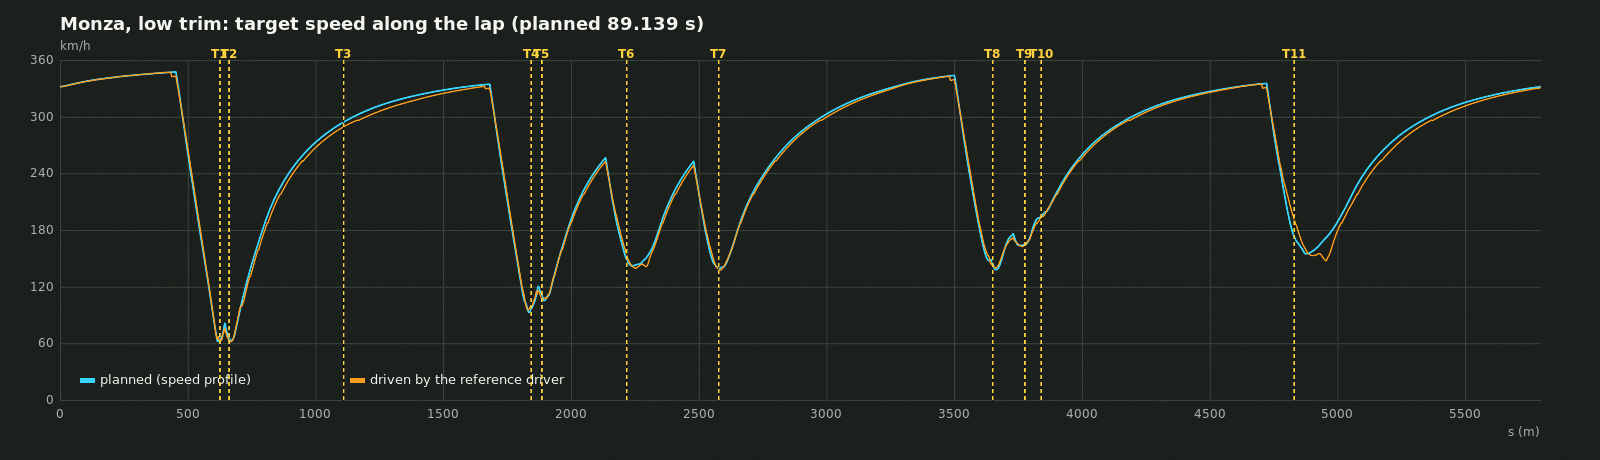
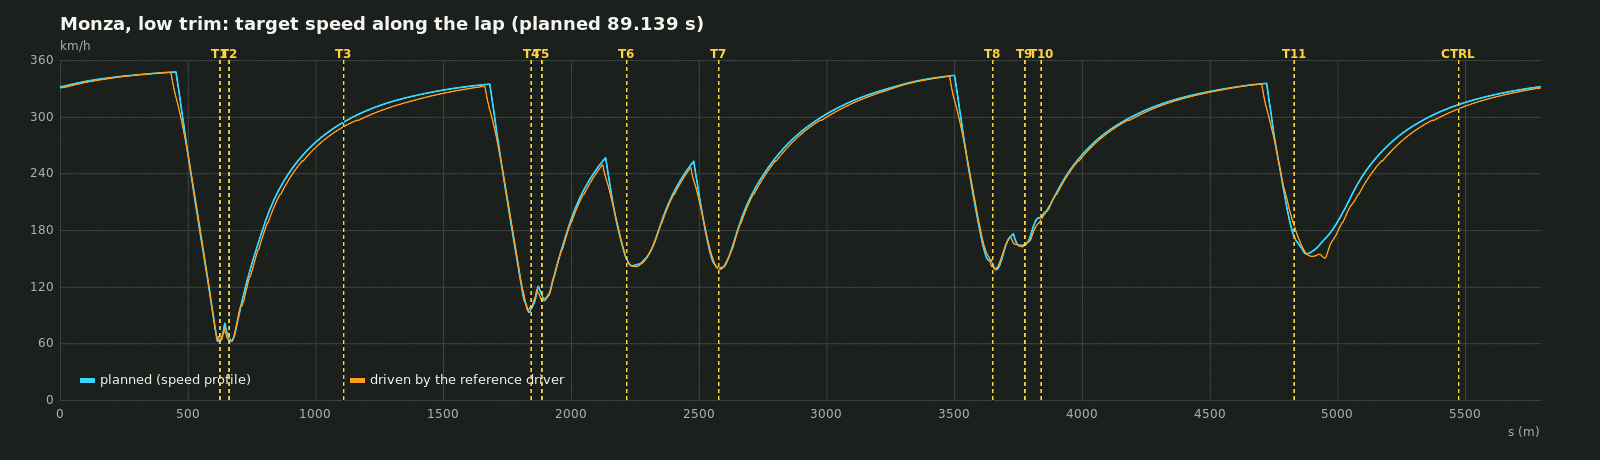
Rewrite the lap attribution, add the corner geometry table and the control-line timing

diff --git a/tools/ai/plot_line.py b/tools/ai/plot_line.py
@@ -79,7 +79,8 @@ def driven_lap(cid):
         for row in csv.DictReader(f):
             if row["lap"] == "0":
                 pts.append((float(row["s"]), float(row["speed_kmh"])))
-    return pts or None
+    # A lap timed from a control line away from s = 0 wraps through s = 0: plot it in s order.
+    return sorted(pts) or None
 
 
 def speed_svg(tr, title, plan_kmh, driven, marks):
@@ -172,6 +173,9 @@ def main(argv):
         plot.write(speed_legend(svg.finish([])), os.path.join(out_dir, "%s-%s-line-%s" % (cid, trim, label.lower())), keep_svg)
 
     marks = [(c["s"], "T%d" % c["number"]) for c in cs]
+    if cid == "monza":
+        # Control line measured on the FIA circuit map (packages/ai/validation/lib/circuits.ts).
+        marks.append((5472.5, "CTRL"))
     plot.write(speed_svg(tr, "%s, %s trim: target speed along the lap (planned %.3f s)" % (name, trim, lap), speeds, driven_lap(cid), marks), os.path.join(out_dir, "%s-%s-speed" % (cid, trim)), keep_svg)
     return 0
 

diff --git a/docs/physics-validation.md b/docs/physics-validation.md
@@ -316,7 +316,7 @@ Also published: distance from pole position to the Turn 1 braking point is Monza
 | Braking in medium and high-downforce trim stronger than published (section 7) | Spa T5 peaks 5.07–5.11 g against 4.5–4.7, distances 82–83 m against 93–99 m; Singapore T7 5.70 g against 4.9 and 1.57 s against 1.90 s; Singapore T14 peak 5.11 g against 4.6 | The model's tyre-limited deceleration rises with downforce; the published peaks barely do (Monza 4.7, Spa 4.7, Singapore 4.9 g). Candidates: high-trim ClA, floor behaviour under dive, load sensitivity. The published distances and times also include a trail-off the fixed event pedal profile only approximates |
 | Monza T1 2023 peak 4.68 g against 5.2 ± 0.4 (section 7) | One event | The 2023 figure stands apart from 2024 (4.6 g) and 2025 (4.7 g) at the same corner and speed; the model gives about 4.7 g for all three. Check the 2023 source |
 | Pouhon 4.14 g against 5.7 ± 0.7 (section 7) | Fast-corner lateral grip below the one secondary figure | Flat constant-speed sweep with μy fitted to braking; the corner is downhill with two apexes and the source is a blog. Re-test on the Spa surface with the reference driver |
-| Monza reference lap 89.926 s against the M1 band 74.852–82.732 s (section 7.6) | 7.19 s outside M1, 8.77 s outside M4; the car itself (driver aside) laps in 88.0 s at the full measured envelope | Medium-speed lateral grip: corner minimum speeds in S2 and S3 are what 2.2–2.5 g allows at 140–180 km/h. On this line +10 % lateral grip is worth 2.3 s, +10 % braking or traction 0.35 s each; at the full envelope the M1 band needs about 1.25× the lateral grip and the M4 band 1.34×. Same root cause as the Pouhon gap and section 7.4 |
+| Monza reference lap 90.137 s against the M1 band 74.852–82.732 s (section 7.6) | 7.41 s outside M1, 8.98 s outside M4 | Not yet attributed to one cause. About 1.13 s is the driver's planning margin and 1.00 s the gap between the plan and the driven lap; the remaining 9.22 s against the pole lap combine the car's grip, the track geometry and authored widths, the line (margin, kerbs unused: 0.85 s of it in the plan) and the speed-profile approximation. The planned corner speeds sit at the car's measured lateral limit on this line's radii (section 7.6 table), so lateral grip is the strongest lever on this geometry, but that alone does not show the car's grip is wrong |
 
 ## 6. Sources
 
@@ -406,7 +406,7 @@ recorded (section 3, rule 2). Speeds in km/h, decelerations and accelerations in
 | Pouhon, medium trim, 281 km/h, Spa air (2.5) | 5.7 ± 0.7 | 4.14 | gap |
 | Parabolica exit, low trim, 270 km/h, Monza air | 3.5–4.0 ± 0.6 | 3.62 | pass |
 | Slow corner 85 km/h, low / medium / high trim | 2.0–2.3 ± 0.4 | 1.81 / 1.82 / 1.85 | pass |
-| Monza reference lap, low trim, qualifying fuel, reference driver (2.1; 7.6) | 74.852–82.732 s (M1) | 89.926 s | gap |
+| Monza reference lap, low trim, qualifying fuel, reference driver (2.1; 7.6) | 74.852–82.732 s (M1) | 90.137 s | gap |
 | Monza speed trap on that lap, DRS open, no tow (2.2) | 348 ± 6 | 347.3 | pass |
 
 18 of 34 pass, one of them the fit, and 16 are recorded gaps (section 5). The reference lap and its
@@ -522,73 +522,119 @@ Each needs a source before it changes.
 
 ### 7.6 Reference lap, Monza (2.1, 2.2)
 
-The reference driver (`packages/ai`) drives a flying lap of the committed Monza surface in the
-section 2.1 conditions: low trim exactly as the game builds the car (`createCarParams('low')`,
-`createWorld` with the track's surface, `addCar`), 10 kg of fuel, 25 °C at 180 m, DRS in the
-zones, the MGU-K deploying from a full store. It produces only the `ControlInput` a player's
-devices produce. Measured with `npm run telemetry -- lap`; asserted by
+The reference driver (`packages/ai`) drives the committed Monza surface in the section 2.1
+conditions: low trim exactly as the game builds the car (`createCarParams('low')`, `createWorld`
+with the track's surface, `addCar`), 10 kg of fuel, 25 °C at 180 m, DRS in the zones, full ERS.
+It produces only the `ControlInput` a player's devices produce. It drives one out-lap, saving the
+MGU-K so the store is full at the line as in qualifying, then the timed lap, timed from the
+**control line** (below). Measured with `npm run telemetry -- lap`; asserted by
 `packages/ai/validation/reference-lap.test.ts` in the physics job (one lap) and by the nightly
 soak (ten consecutive laps).
 
 | Quantity | Result | Target or reference |
 |---|---|---|
-| Lap | **89.926 s** | 1:18.792 (+11.134 s, +14.1 %); M1 band 74.852–82.732 s: outside by 7.194 s; M4 band 76.428–81.156 s: outside by 8.770 s |
+| Lap | **90.137 s** | 1:18.792 (+11.345 s, +14.4 %); M1 band 74.852–82.732 s: outside by 7.405 s; M4 band 76.428–81.156 s: outside by 8.981 s |
 | Speed trap (412 m, 212 m before T1) | 347.3 km/h | 348 ± 6 (median 348.3), pass |
-| Timing line | 332.3 km/h | fastest 320.7 published (see the note below) |
-| MGU-K deployed from the store / harvested | 3.13 / 1.30 MJ | ≤ 4 / ≤ 2 MJ per lap |
+| Control line | 308.9 km/h | fastest 320.7 published |
+| MGU-K deployed from the store / harvested | 3.08 / 1.52 MJ | ≤ 4 / ≤ 2 MJ per lap |
 | Track limits | at most one wheel centre past a white line, never four | rule: never all four wheels beyond the edges |
 | Stability | sideslip at most 4.4°, no spin | |
-| Ten consecutive laps (34 kg start, getting lighter) | 90.406–90.651 s, spread 0.244 s, all clean | nightly soak: spread ≤ 0.5 s |
+| Ten consecutive laps (34 kg start, getting lighter) | 90.281–90.509 s, spread 0.228 s, all clean | nightly soak: spread ≤ 0.5 s |
 
-| Sector | Lap | Speed profile | Pole lap 2025 | Session best | Lap − pole |
+**Timing origin.** The track file's s = 0 is the OpenStreetMap start node, at the start line.
+The FIA circuit map [4] draws the start line and the control (timing) line apart on the main
+straight, and lap and sector times run from the control line. The map gives no distance for it,
+so it was measured: the map's drawn track (its vector paths) was fitted to this centreline with a
+similarity transform (median miss 3.4 m), and the control-line tick projected onto it. The control
+line is at **s = 5472.5 m, 320.5 m before s = 0**, within about ±13 m: the map's S1, S2 and
+speed-trap ticks land −8.0, −6.6 and +12.6 m from their stored positions under the same fit. The
+lap runner times laps, sectors and the ERS lap from that line (`CircuitSetup.controlLine`); the
+track file is unchanged here, and carrying the control line as track metadata is a track-pipeline
+task. Two things follow. The map also anchors DRS activation 2 at "12 m after the finish line",
+so the track file's zone 2 activation (s = 12 m) is about 320 m later than allowed: the car opens
+DRS that much later on the main straight than a real car may. And the earlier version of this
+section, which timed from s = 0, had sector 1 faster than the pole lap's; that does not survive:
+timed from the control line every sector is slower.
+
+| Sector (from the control line) | Lap | Speed profile | Pole lap 2025 | Session best | Lap − pole |
 |---|---|---|---|---|---|
-| S1 (0–1609 m) | 25.280 | 24.996 | 26.262 | 26.181 | −0.982 (−3.7 %) |
-| S2 (1609–3434 m) | 30.854 | 30.749 | 26.483 | 26.340 | +4.371 (+16.5 %) |
-| S3 (3434–5793 m) | 33.791 | 33.393 | 26.047 | 26.047 | +7.744 (+29.7 %) |
+| S1 (5472.5 → 1609.3 m, 1930 m) | 28.922 | 28.552 | 26.262 | 26.181 | +2.660 (+10.1 %) |
+| S2 (1609.3 → 3433.6 m, 1824 m) | 30.925 | 30.749 | 26.483 | 26.340 | +4.442 (+16.8 %) |
+| S3 (3433.6 → 5472.5 m, 2039 m) | 30.290 | 29.838 | 26.047 | 26.047 | +4.243 (+16.3 %) |
 
 | Corner | Minimum speed (km/h) | Speed profile | Braking into it | Published |
 |---|---|---|---|---|
-| T1 Rettifilo | 63.0 | 62.9 | from 347 km/h, 192 m, 4.18 s to the minimum | 337→89 km/h in 129 m, 2.75 s; here 337→89 km/h takes 143 m, 2.73 s |
-| T2 Rettifilo | 62.2 | 63.7 | — | — |
+| T1 Rettifilo | 63.0 | 62.9 | from 347 km/h, 192 m, 4.22 s to the minimum | 337→89 km/h in 129 m, 2.75 s; here 337→89 km/h takes 160 m, 2.95 s |
+| T2 Rettifilo | 62.2 | 63.7 | 23 m | — |
 | T3 Biassono | 163.8 | 171.8 | lift only | — |
-| T4 Roggia | 95.7 | 93.6 | from 332 km/h, 169 m, 3.23 s | 107 m, 2.02 s (speeds not published) |
-| T5 Roggia | 107.3 | 105.8 | 23 m | — |
-| T6 Lesmo 1 | 140.0 | 142.5 | from 253 km/h, 117 m, 2.32 s | — |
-| T7 Lesmo 2 | 138.1 | 139.3 | from 249 km/h, 106 m, 2.13 s | — |
-| T8 Ascari entry | 140.4 | 138.7 | from 343 km/h, 181 m, 3.00 s | — |
-| T9 Ascari | 157.4 | 155.8 | — | — |
-| T10 Ascari exit | 186.3 | 190.1 | — | — |
-| T11 Parabolica | 148.0 | 155.3 | from 335 km/h, 253 m, 4.56 s | — |
+| T4 Roggia | 95.7 | 93.6 | from 333 km/h, 170 m, 3.27 s | 107 m, 2.02 s (speeds not published) |
+| T5 Roggia | 105.8 | 105.8 | 21 m | — |
+| T6 Lesmo 1 | 141.7 | 142.5 | from 250 km/h, 129 m, 2.56 s | — |
+| T7 Lesmo 2 | 139.1 | 139.3 | from 247 km/h, 118 m, 2.35 s | — |
+| T8 Ascari entry | 139.7 | 138.7 | from 343 km/h, 179 m, 3.00 s | — |
+| T9 Ascari | 157.7 | 155.8 | — | — |
+| T10 Ascari exit | 183.6 | 190.1 | — | — |
+| T11 Parabolica | 150.8 | 155.3 | from 335 km/h, 247 m, 4.46 s | — |
+
+**What the line asks of the car.** Per corner: the line's tightest radius, the driven minimum
+speed, the lateral acceleration that speed implies on that radius, and the car's measured
+sustained lateral limit at that speed on flat ground at 1 g (the envelope; printed by
+`npm run telemetry -- lap`). Implied above the limit means grip the flat sweep does not show
+(banking, a compression, or a minimum speed and a minimum radius that do not coincide); below it,
+margin left at that corner on this line.
+
+| Corner | Line min radius (m) | Driven min speed (km/h) | Implied lateral (g) | Measured flat limit at that speed (g) |
+|---|---|---|---|---|
+| T1 Rettifilo | 18.7 | 63.0 | 1.66 | 1.69 |
+| T2 Rettifilo | 19.5 | 62.2 | 1.56 | 1.69 |
+| T3 Biassono | 278.7 | 163.8 | 0.76 | 2.36 |
+| T4 Roggia | 38.5 | 95.7 | 1.87 | 1.87 |
+| T5 Roggia | 46.3 | 105.8 | 1.90 | 1.94 |
+| T6 Lesmo 1 | 75.2 | 141.7 | 2.10 | 2.19 |
+| T7 Lesmo 2 | 67.2 | 139.1 | 2.27 | 2.17 |
+| T8 Ascari entry | 69.0 | 139.7 | 2.23 | 2.17 |
+| T9 Ascari | 98.0 | 157.7 | 2.00 | 2.31 |
+| T10 Ascari exit | 110.1 | 183.6 | 2.41 | 2.54 |
+| T11 Parabolica | 79.2 | 150.8 | 2.26 | 2.26 |
+
+Every corner but the flat-out T3 is taken at or near the car's measured lateral limit for the
+radius this line gives it, so on this geometry the planning is grip-limited. That does not isolate
+an error in the car's grip: a real lap's radii, widths and kerb use differ from this line's, and
+the published data have no per-corner speeds to compare (only Brembo's 89 km/h at the end of the
+T1 stop, against 63 km/h here).
 
 Plots: `docs/evidence/m1-ai/monza-low-line.png` (the line over the plan, speed as colour),
 close-ups `monza-low-line-t*.png`, and `monza-low-speed.png` (target speed along the lap with the
 driven lap over it).
 
-**Where the 11.1 s go.** Three layers, measured separately:
+**Where the 11.3 s go.** What is measured, and what is not yet separated:
 
-1. *The car* (9.2 s against the pole lap): the speed profile at the full measured envelope on the
-   same line gives 88.014 s. The car is slow in corners, not on the straights: the trap is on
-   target and S1, which is mostly straight and has the one slow chicane, is faster than the pole
-   lap's sector, while S2 (Roggia, both Lesmos) and S3 (Ascari, Parabolica) lose 4.4 and 7.7 s.
-   The corner minimum speeds are what the measured lateral limit allows: 1.7–1.9 g at 60–100 km/h,
-   2.2–2.5 g at 140–180 km/h, 2.9 g at 220 km/h (envelope at load 1, below), where section 2.5
-   estimates 3.5–4.0 g at the Parabolica exit for the real car. On this line the lap
-   is far more sensitive to lateral grip than to anything else: +10 % lateral 2.27 s, +20 % 4.30 s,
-   +30 % 6.14 s; +10 % braking 0.35 s; +10 % traction 0.36 s. At the full envelope the lap reaches
-   the M1 band at 1.25× the lateral grip, the M4 band at 1.34×, the pole lap at 1.49×. This is the
-   same shortfall as the Pouhon gap and section 7.4's load-sensitivity pattern, now with its cost
-   in lap time; it is the next physics task's target.
-2. *Planning margin* (1.13 s): the reference driver plans with 97 % of the lateral and traction
-   limits and 95 % of the braking limit (89.139 s). Asking for more is slower and then unclean:
-   at 98 % and 99 % it laps in 90.032 and 90.252 s because it runs wider, and at 100 % all four
-   wheels leave the track at Parabolica (90.355 s).
-3. *Driving* (0.79 s against its own plan): mostly Parabolica (about 0.45 s; braking into the
-   turn, the light inside front wheel limits the pedal and the car runs up to 4 m wide), the exits
-   of T1–T2 and Ascari, and the run through Curva Grande, which the profile takes 8 km/h faster.
+1. *Driving* (1.00 s): the driven lap (90.137 s) against the driver's own speed profile on the
+   same line (89.139 s): 0.37 s in S1 (the T1–T2 exits and Curva Grande, which the profile takes
+   8 km/h faster), 0.18 s in S2 and 0.45 s in S3 (the Ascari exit and the braking into
+   Parabolica, where the light inside front locks first under the fixed 57 % bias and the car
+   runs wide).
+2. *Planning margin* (1.13 s): the driver plans with 97 % of the lateral and traction limits and
+   95 % of the braking limit; at the full measured envelope the profile on the same line is
+   88.014 s. Asking for more is slower and then unclean: at 98 % and 99 % the lap is 90.032 and
+   90.252 s because the car runs wider, and at 100 % all four wheels leave the track at Parabolica.
+3. *Residual* (9.22 s against the pole lap): the full-envelope profile on this line. This
+   combines the car (grip, power, drag), the track geometry and authored widths (track-data.md),
+   the line and the profile approximation, and they are not separated yet. Measured pieces: the
+   line's 0.3 m margin is worth 0.26 s (87.757 s with no margin, line re-optimised), and using the
+   kerbs another 0.60 s (87.160 s with no margin and kerbs allowed: flat 1.0 m, exit 1.5 m,
+   chicane 1.0 m); the profile's own approximation is not measured (the driver gets within 1.1 %
+   of it). What is left after those, about 8.4 s, is car, geometry and widths.
+
+*Sensitivities, conditional on this line and geometry* (full-envelope profile): +10 % lateral
+grip 2.27 s, +20 % 4.30 s, +30 % 6.14 s; +10 % braking 0.35 s; +10 % traction 0.36 s. On this line
+the profile would reach the M1 band at 1.25× the lateral limit, the M4 band at 1.34× and the pole
+lap at 1.49×. These are not a calibration target on their own: the geometry, width and line
+contributions above would change them, and the calibration task should separate those first
+(the per-corner table is the starting point).
 
 **Envelope.** Measured by driving the vehicle model (`packages/ai/src/envelope/measure.ts`, 1096 s
-of driving, about 1 s of wall time), cached in `packages/ai/data/monza-low.envelope.json` with a
-hash of its inputs (car parameters, air, fuel and the source of the sim and of the measurement):
+of driving, about 1 s of wall time), cached in `packages/ai/data/monza-low.envelope.json`:
 constant-speed lateral sweeps at 60–340 km/h, threshold stops from above top speed, and
 full-throttle runs with wheelspin held at the tyre's peak, DRS closed and open, MGU-K on and off,
 each at 0.8, 1.0 and 1.2 g of normal load (gravity scaled: what a crest or compression does), and
@@ -603,8 +649,6 @@ closed and 353.8 km/h open.
 
 - The driver plans with the measured envelope of this exact car, so the line and speeds fit the
   car better than any human's would.
-- A flying start 400 m before the line with the MGU-K deploying on the run-up (it counts against
-  the out-lap) and a full store at the line.
 - No wind, no traffic, no tyre temperature or wear model yet (the softest compound's grip is the
   tyre's one μ).
 
@@ -612,20 +656,11 @@ closed and 353.8 km/h open.
 
 - The driver keeps its wheels off the kerbs: in this model a kerb's leading edge (35–50 mm high
   within 10–12 cm) throws the wheel load around enough (0 to 11 kN within a tick) to unsettle the
-  car at the limit, so the line stays 0.3 m inside the white lines. A real pole lap uses the
-  kerbs at T1–T2, Roggia, both Lesmos and Ascari.
+  car at the limit, so the line stays 0.3 m inside the white lines (0.86 s in the plan, above).
+- DRS on the main straight opens about 320 m later than the map allows (track file, above).
 - The fixed 57 % brake bias and no ABS: braking while turning in, the lightly loaded inside front
   locks first, and the driver eases the pedal to keep it turning. A real driver adjusts bias per
   corner.
 - No downforce gain from the tow, and the driver never uses more than 97 % of the envelope.
 - The racing line is computed on the OpenStreetMap-derived centreline and authored widths
   (track-data.md); local width or curvature errors there show up as line choices.
-
-**Two observations for the track data** (reported, not changed here): the published timing-line
-speed (320.7 km/h, the session's fastest) is lower than this car's 332 km/h at the track's s = 0,
-although this car's corner speeds, Parabolica included, are lower than a pole lap's, which
-suggests the timing line sits about 200 m before s = 0 in reality. And the published sector times cannot be split on
-the track's sector lines with any plausible speed trace: an S3 of 2359 m in 26.047 s needs a mean
-of 326 km/h through Ascari and Parabolica. Both point at the start/finish and sector positions in
-`packages/track/data/monza.json` (built from doc 2.2's "S1 233 m before T4; S2 215 m before
-T8"); the lap time does not depend on them, the sector table above does.

diff --git a/docs/STATUS.md b/docs/STATUS.md
@@ -33,12 +33,13 @@ Open the `Wi-Fi:` address it prints on a phone on the same network. The HTTPS ad
 - Committed track files will be offered under ODbL 1.0 with the OpenStreetMap and Copernicus notices, separate from the MIT code.
 - The TUMFTM track dataset is used only as a local cross-check, never shipped: it is OSM-derived but published under LGPL-3.0.
 - Race start fuel 105 kg in the physics targets: the commonly quoted 110 kg cap was not found in the 2025 regulation text.
-- Reference driver (M1): the reference lap at Monza is 89.926 s, outside the M1 band (74.852–82.732 s). It is recorded as a known gap (physics-validation section 5 and 7.6), not loosened: the car lacks medium-speed lateral grip. The test asserts the gap stays within 0.197 s of the recorded value.
+- Reference driver (M1): the reference lap at Monza is 90.137 s, outside the M1 band (74.852–82.732 s). It is recorded as a known gap (physics-validation section 5 and 7.6), not loosened. The residual is not yet split between the car's grip, the track geometry and widths, and the line; the test asserts the gap stays within 0.197 s of the recorded value.
 - The reference driver keeps off the kerbs and 0.3 m inside the white lines: the kerb edges in the track model unsettle the car at the limit. Kerb use is a per-profile setting in the line configuration for when kerbs are smoother.
 - The reference driver plans with 97 % of the lateral and traction limits and 95 % of braking: the fastest setting that stays clean (98–99 % is slower, 100 % leaves the track).
-- The flying lap starts 400 m before the timing line on the racing line at the planned speed, with a full energy store, and the MGU-K may deploy on that run-up (it counts against the out-lap). Track limits are judged strictly: a wheel is off once its centre is past the white line.
-- The nightly ten-lap soak starts with 34 kg of fuel (qualifying fuel cannot cover ten laps) and requires a lap-time spread of at most 0.5 s; measured 0.244 s.
-- The Monza timing-line and sector positions in the track file look inconsistent with the published speeds and sector times (physics-validation 7.6); reported, not changed, since the track package belongs to another task.
+- The timed lap follows one out-lap on which the MGU-K is saved (a full store at the line, as in qualifying). Shorter run-ups placed the car at full speed with a full store just before a braking zone, a state a flying lap never reaches, and it could spin there. Track limits are judged strictly: a wheel is off once its centre is past the white line.
+- Monza laps and sectors are timed from the control line, measured on the FIA circuit map at s = 5472.5 m (320.5 m before the track file's s = 0, ±13 m). The track file is unchanged; the track pipeline should carry the control line as metadata, and its DRS zone 2 activation (anchored on the map at the finish line) is about 320 m late.
+- The nightly ten-lap soak starts with 34 kg of fuel (qualifying fuel cannot cover ten laps) and requires a lap-time spread of at most 0.5 s; measured 0.228 s.
+- The racing-line and envelope artefacts are checked for staleness by behavioural fingerprints (what the sim, track and line code compute), not by hashing source text, so unrelated edits do not block other work. The check takes about 5 s in the physics job.
 
 ## Optional, needs you
 

diff --git a/packages/ai/README.md b/packages/ai/README.md
@@ -16,8 +16,27 @@ player drives; drivers follow them and produce only a `ControlInput`. No speed o
    banking and vertical curvature, DRS in the zones, MGU-K deployment within the per-lap budget.
    About 10 ms per line.
 4. **Artefacts** (`data/`): `<circuit>-<trim>.envelope.json` and `<circuit>-<trim>.line.json`,
-   each with a hash of its inputs. `npm run ai:build -- --check` (and the physics suite) report a
-   stale file when the car, the track or the code changed.
+   each with a fingerprint of what produced it.
+
+## Staleness
+
+`npm run ai:build -- --check` and the physics suite recompute the fingerprints and compare them
+with the stored ones (about 5 s). A fingerprint is behavioural: a hash of what the code
+computes, every number rounded to six significant digits, never of source text. So a comment,
+a rename or reformatting anywhere leaves the artefacts current, and any change in behaviour that
+reaches them, in the sim, the track or this package, makes them stale.
+
+- Envelope: the envelope is remeasured (about 1 s of driving) and the measurement, with the car's
+  parameters, the air and the fuel, is the fingerprint.
+- Racing line: a probe run of the pipeline on the real track: the corridor (widths, kerbs, frame
+  limits), the minimum-curvature line, its geometry (positions, elevation and slopes from
+  `Track.ground`, banking, surface grip under the wheels), its speed profile with the DRS zones, a
+  short refinement pass, and the line configuration, skill and envelope fingerprint.
+
+When either is stale the failure says so and what to do: run `npm run ai:build` (about 15–30 s),
+then commit `packages/ai/data/<circuit>-<trim>.envelope.json` and `.line.json`. A behaviour change
+the probes cannot see (a new input to the line that the probe does not exercise) needs the
+`PROCEDURE` constant in `validation/lib/artefacts.ts` bumped with it.
 
 ## Driving
 
@@ -31,6 +50,7 @@ tick costs about 1.3 µs.
 
 ## Validation
 
-`validation/reference-lap.test.ts` (physics job) drives one flying lap at Monza; the ten-lap soak
+`validation/reference-lap.test.ts` (physics job) drives an out-lap and one timed lap at Monza,
+timed from the circuit's control line (`CircuitSetup.controlLine`); the ten-lap soak
 is `validation/soak/` (nightly). `npm run telemetry -- lap` prints the tables and writes a trace.
 Results and the time-loss analysis: `docs/physics-validation.md` section 7.6.

diff --git a/tools/telemetry/README.md b/tools/telemetry/README.md
@@ -25,7 +25,7 @@ npm run telemetry -- lap --laps 10     # ten consecutive laps (fuel for all of t
 | `coast-down` | Neutral from 320 km/h: deceleration against speed |
 | `assists` | Full throttle out of a slow corner and full brake in a turn (both at 85 % of the limit) with TC or ABS 0–3; full-pedal straight stop from 300 km/h with ABS 0–3 |
 | `validate` | The table of every target: result, stated target, band, verdict (pass, gap, fail) |
-| `lap` | The reference driver on the committed racing line (`packages/ai`): flying lap(s) at Monza in the doc 2.1 conditions; lap, sector, corner and trap tables against the published figures, driver cost per tick; `lap-monza.csv` (s, speed, target, pedals, steer, gear, rpm, g, DRS, ERS, line and lateral error, sideslip, wheel slip and load) and `lap-monza.json` (`--laps`, `--fuel`, `--every` ticks between trace rows) |
+| `lap` | The reference driver on the committed racing line (`packages/ai`): an out-lap, then timed lap(s) from the control line at Monza in the doc 2.1 conditions; lap, sector, corner, corner-geometry and trap tables against the published figures, driver cost per tick; `lap-monza.csv` (s, speed, target, pedals, steer, gear, rpm, g, DRS, ERS, line and lateral error, sideslip, wheel slip and load) and `lap-monza.json` (`--laps`, `--fuel`, `--every` ticks between trace rows) |
 
 Each run writes `<name>.csv` per trace (40 Hz rows: speed, rpm, gear, pedals, g, per-wheel
 load, slip ratio and slip angle, ride heights, pitch, roll, aero forces, DRS, ERS, fuel, yaw
